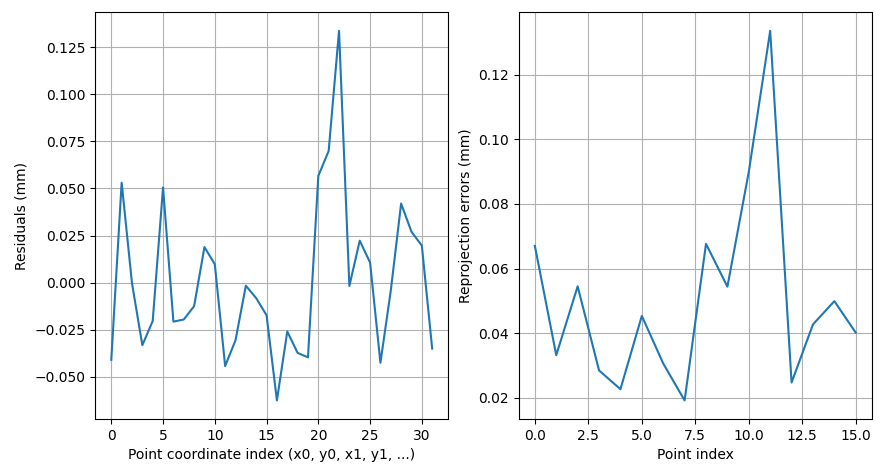
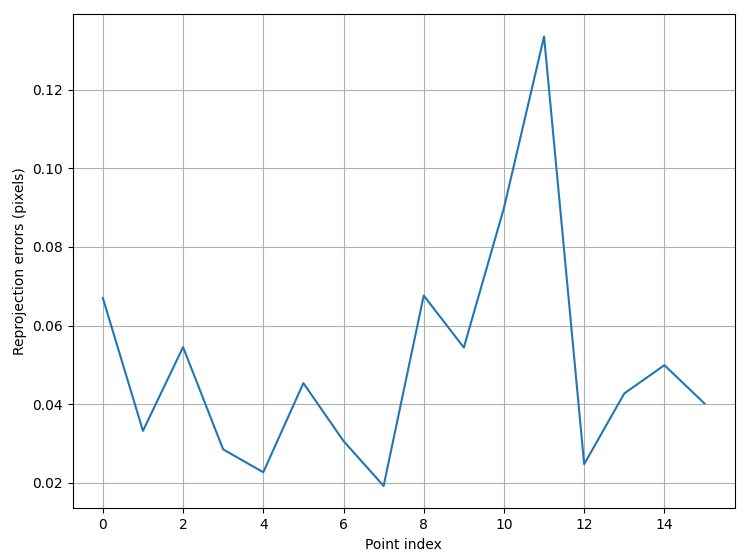
Extends docs

diff --git a/multi-marker/run.py b/multi-marker/run.py
@@ -45,7 +45,7 @@ def solve_pnp_objfun(x, P, p ,cam):
 
 
 
-def solve_pnp(P, p, cam):
+def solve_pnp(P, p, cam, verbose=False):
     assert P.shape[0] == p.shape[0]
     assert P.shape[1] == 3
     assert p.shape[1] == 2
@@ -57,19 +57,14 @@ def solve_pnp(P, p, cam):
     if not result.success:
         raise Exception('solve_pnp failed: ' + str(result))
     cam_to_obj_estim = Trafo3d(t=result.x[:3], rodr=result.x[3:]).inverse()
-    if True:
-        fig = plt.figure()
-        ax = fig.add_subplot(121)
+    if verbose:
         residuals = solve_pnp_objfun(result.x, P, p, cam)
-        ax.plot(residuals)
-        ax.set_xlabel('Point coordinate index (x0, y0, x1, y1, ...)')
-        ax.set_ylabel('Residuals (mm)')
-        ax.grid()
-        ax = fig.add_subplot(122)
         dist = np.linalg.norm(residuals.reshape((-1, 2)), axis=1)
+        fig = plt.figure()
+        ax = fig.add_subplot(111)
         ax.plot(dist)
         ax.set_xlabel('Point index')
-        ax.set_ylabel('Reprojection errors (mm)')
+        ax.set_ylabel('Reprojection errors (pixels)')
         ax.grid()
         plt.show()
     return cam_to_obj_estim
@@ -119,23 +114,53 @@ if __name__ == "__main__":
     # Just for testing remove some markers
 #    del corners[1]
 #    ids = np.delete(ids, 1)
-    if True:
-        display_img = img.copy()
-        aruco.drawDetectedMarkers(display_img, corners, ids)
-        display_img = cv2.cvtColor(display_img, cv2.COLOR_BGR2RGB)
-        fig = plt.figure()
-        ax = fig.add_subplot(111)
-        ax.imshow(display_img)
-        plt.show()
     img_ids = np.asarray(ids, dtype=int).reshape((-1, ))
     img_points = np.asarray(corners).reshape((-1, 4, 2))
     print(f'    {img_ids.size} markers found in image')
+
+    # Show object points
+    if True:
+        fig = plt.figure()
+        ax = fig.add_subplot(111)
+        for oid, opoints in zip(obj_ids, obj_points):
+            ax.plot(opoints[:,0], opoints[:,1], 'xr')
+            m = np.mean(opoints, axis=0)
+            ax.text(m[0], m[1], f'Marker {oid}',
+                horizontalalignment='center', verticalalignment='center')
+        midx = 0
+        pidx = 1
+        margin = 5
+        ax.text(obj_points[midx, pidx, 0] + margin, obj_points[midx, pidx, 1] + margin,
+            f'P({obj_points[midx, pidx, 0]:.1f}, {obj_points[midx, pidx, 1]:.1f}, {obj_points[midx, pidx, 2]:.1f})')
+        ax.set_title('Object points')
+        ax.set_xlabel('X (mm)')
+        ax.set_ylabel('Y (mm)')
+        ax.set_aspect('equal')
+        plt.show()
+
+    # Show image points
+    if True:
+        fig = plt.figure()
+        ax = fig.add_subplot(111)
+        ax.imshow(img)
+        for ipnt in img_points:
+            ax.plot(ipnt[:,0], ipnt[:,1], 'xr')
+        midx = 1
+        pidx = 1
+        margin = 30
+        ax.text(img_points[midx, pidx, 0] + margin, img_points[midx, pidx, 1] + margin,
+            f'p({img_points[midx, pidx, 0]:.1f}, {img_points[midx, pidx, 1]:.1f})')
+        ax.set_title('Image points')
+        ax.set_xlabel('u (pixels)')
+        ax.set_ylabel('v (pixels)')
+        ax.set_aspect('equal')
+        plt.show()
 
     # Get correspondences of object and image points based in IDs
     P, p = determine_correspondences(obj_ids, obj_points, img_ids, img_points)
 
     # Solve point-to-point problem
-    cam_to_plane_estim = solve_pnp(P, p, cam)
+    cam_to_plane_estim = solve_pnp(P, p, cam, verbose=True)
     print(f'cam_T_plane:\n    {cam_to_plane}')
     print(f'cam_T_plane estimated:\n    {cam_to_plane_estim}')
     dt, dr = cam_to_plane.distance(cam_to_plane_estim)

diff --git a/multi-marker/generate_images.py b/multi-marker/generate_images.py
@@ -4,7 +4,6 @@ import json
 import os
 import sys
 import time
-import matplotlib.pyplot as plt
 
 sys.path.append(os.path.abspath('../'))
 from camsimlib.camera_model import CameraModel
@@ -102,18 +101,3 @@ if __name__ == "__main__":
             'square_length': marker_square_length }
     with open(basename + '.json', 'w') as f:
        json.dump(params, f, indent=4, sort_keys=True)
-
-    if False:
-        fig = plt.figure()
-        ax = fig.add_subplot(111)
-        for i in range(len(marker_ids)):
-            coords = marker_points + marker_coords[i, :]
-            ax.plot(coords[:,0], coords[:,1], 'xk')
-            m = np.mean(coords, axis=0)
-            ax.text(m[0], m[1], f'Marker {i}',
-                horizontalalignment='center', verticalalignment='center')
-        ax.set_title('Object points, Z=0')
-        ax.set_xlabel('X (mm)')
-        ax.set_ylabel('Y (mm)')
-        plt.show()
-
